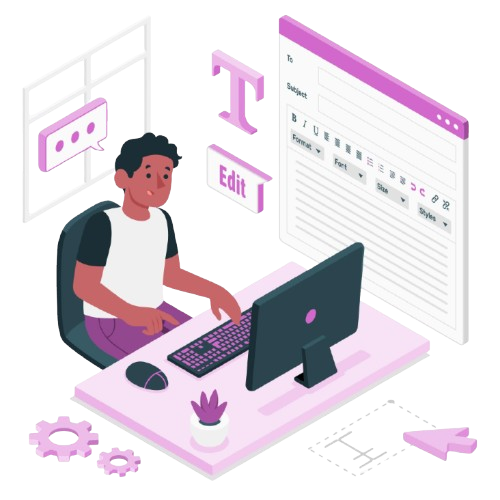
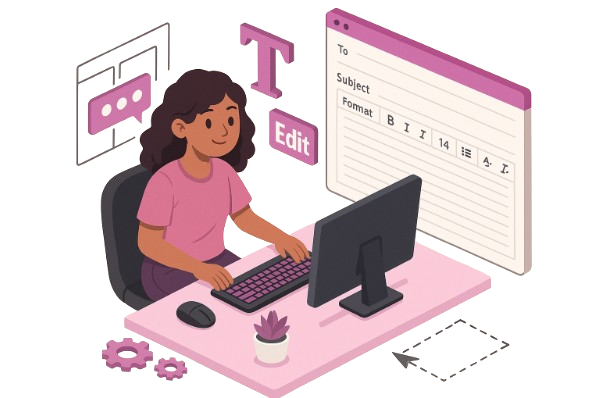
update: estilização do portfólio

diff --git a/src/components/main-section.tsx b/src/components/main-section.tsx
@@ -6,19 +6,19 @@ export default function MainSection() {
     <>
       <Header />
       <section
-        className="container flex justify-center items-center h-screen "
+        className="container flex justify-center items-center h-screen"
         data-aos="fade"
       >
-        <div className="flex justify-center items-center">
+        <div className="max-md:hidden flex justify-center items-center">
           <img src="/perfil.png" alt="Perfil" className="w-100 rounded-full" />
         </div>
-        <div className="flex flex-col justify-center">
-          <div className="flex flex-col gap-6">
-            <div>
-              <h1 className="text-6xl font-bold bg-gradient-to-r from-fuchsia-300 via-fuchsia-400 to-fuchsia-600 bg-clip-text text-transparent pb-3">
+        <div className="flex flex-col justify-center items-center">
+          <div className="flex flex-col  max-md:justify-center max-md:items-center gap-6">
+            <div className="flex flex-col max-md:justify-center max-md:items-center">
+              <h1 className="max-md:text-center text-4xl md:text-6xl font-bold bg-gradient-to-r from-fuchsia-300 via-fuchsia-400 to-fuchsia-600 bg-clip-text text-transparent pb-3">
                 Livia Kobayashi
               </h1>
-              <h2 className="text-2xl text-neutral-200 pb-3">
+              <h2 className="max-md:text-center text-xl md:text-2xl text-neutral-200 pb-3">
                 Front-end developer | UI/UX Designer
               </h2>
             </div>
@@ -26,22 +26,6 @@ export default function MainSection() {
           </div>
         </div>
       </section>
-      {/* <div
-        className="flex flex-col gap-6 justify-center items-center h-screen text-center"
-      >
-        <div className="lg:w-1/2">
-          <h2 className="lg:text-xl font-bold text-neutral-200/70">
-            Seja bem vindo(a) ao meu{" "}
-            <span className="bg-gradient-to-r from-fuchsia-300 via-fuchsia-400 to-fuchsia-600 bg-clip-text text-transparent">
-              portfólio
-            </span>
-            !
-          </h2>
-          <h1 className="max-sm:text-4xl sm:text-5xl md:text-6xl font-bold self-center text-neutral-200">
-            Transformando ideias em interfaces intuitivas.
-          </h1>
-        </div>
-      </div> */}
     </>
   );
 }

diff --git a/src/components/about-me.tsx b/src/components/about-me.tsx
@@ -2,25 +2,15 @@ import Social from "./icons/social";
 
 export default function AboutMe() {
   return (
-    <div className="container">
-      <div
-        className="flex flex-col gap-4 px-3 max-md:px-6 lg:w-2/3"
-        data-aos="fade-up"
-      >
-        <img
-          src="perfil.jpg"
-          alt="Minha foto"
-          className="max-w-50 lg:w-70 rounded-sm"
-        />
+    <div
+      className="container flex justify-center items-center"
+      data-aos="fade-up"
+    >
+      <div className="flex flex-col gap-5 md:w-1/2">
         <h2 className="max-sm:text-3xl sm:text-4xl bg-gradient-to-r from-fuchsia-300 via-fuchsia-500 to-fuchsia-800 bg-clip-text text-transparent font-bold pb-2">
-          Front-end developer | UI/UX Designer
+          Sobre mim
         </h2>
-        <hr className="" />
-      </div>
-      <div
-        className="flex flex-col gap-6 px-3 max-md:px-6 lg:w-2/3"
-        data-aos="fade-up"
-      >
+
         <p className="text-justify text-neutral-200/70">
           Desenvolvedora Front-end & UI/UX Designer, movida por desafios e
           apaixonada por tecnologia. Tenho um olhar atento para a experiência do
@@ -30,6 +20,9 @@ export default function AboutMe() {
           incríveis.
         </p>
         <Social />
+      </div>
+      <div className="max-md:hidden">
+        <img src="girl.png" alt="Imagem" className="w-100" />
       </div>
     </div>
   );

diff --git a/src/components/contact.tsx b/src/components/contact.tsx
@@ -4,7 +4,6 @@ import H2 from "./h2";
 export default function Contact() {
   return (
     <>
-      {/* <section className=" flex justify-between rounded-sm bg-fuchsia-950 shadow-lg mx-4"> */}
       <section
         className=" flex rounded-sm shadow-lg bg-fuchsia-950 m-4 p-6 lg:p-10 gap-15 "
         data-aos="fade-up"
@@ -35,11 +34,7 @@ export default function Contact() {
             />
           </div>
         </div>
-        <img
-          src="contact.png"
-          alt="Contact"
-          className="max-w-96 max-lg:hidden"
-        />
+        <img src="contact.png" alt="Contact" className="w-100 max-lg:hidden" />
       </section>
       <footer className="mt-20 text-sm text-neutral-200">
         &copy; Desenvolvido por Livia Kobayashi
